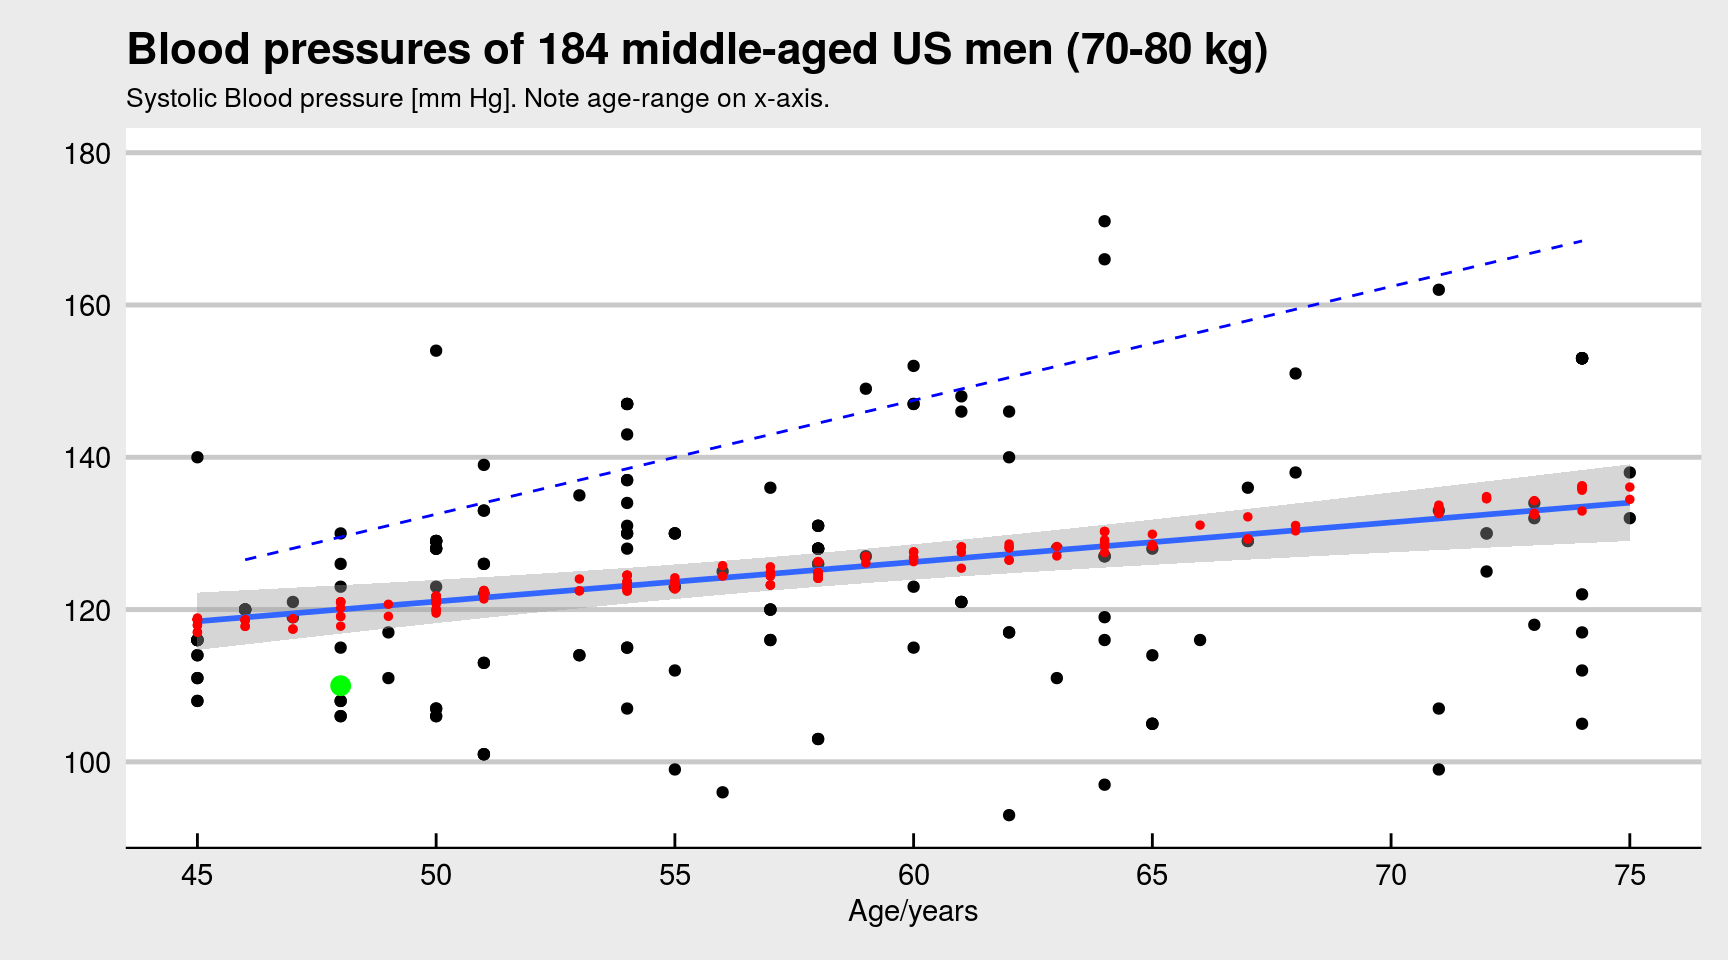
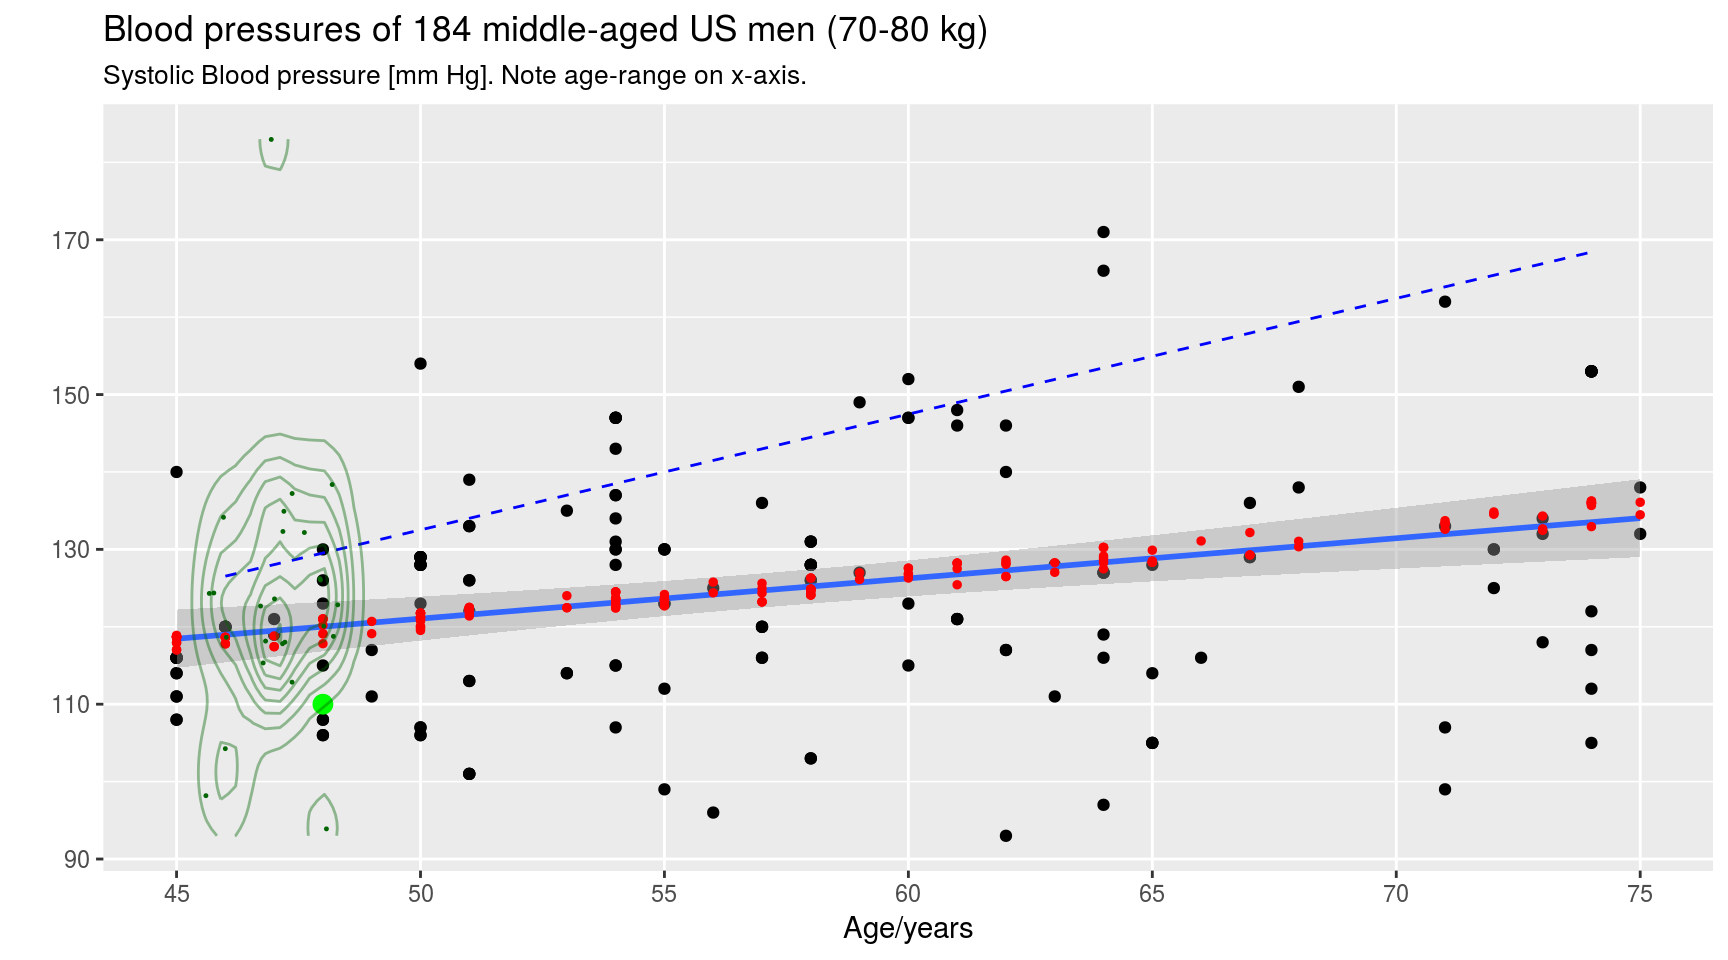
add isolines of  my BP data to last plot

diff --git a/content/post/2018-02-08-blood-pressure.html b/content/post/2018-02-08-blood-pressure.html
@@ -29,7 +29,7 @@ keywords:
 <div id="blood-pressure-as-a-function-of-age-and-body-weight" class="section level4">
 <h4>Blood Pressure as a function of age and body weight</h4>
 <div class="alert alert-info"><b>Basic analysis of two health datasets from ~ 2010, about the general US Population.</b>
-The datasets were gathered independently. One of them is a tiny teaching dataset, the other is a larger study. Both datasets show that systolic blood pressure rises about 5-10 mm Hg per decade of a person &apos;s life. </div>
+The datasets were gathered independently. One of them is a tiny teaching dataset, the other is a larger medical study. Both datasets show that systolic blood pressure rises about 5-10 mm Hg per decade of a person &apos;s life. </div>
 <p>Recently, conversations with friends and colleagues had me thinking about blood pressure. Then I’ve remembered that weekend project from late 2017. Back then I had analysed two datasets: one available <a href="http://college.cengage.com/mathematics/brase/understandable_statistics/7e/students/datasets/mlr/excel/mlr02.xls">on the internet</a>, the other available as R package <a href="https://cran.r-project.org/web/packages/NHANES/index.html">NHANES on CRAN</a>.</p>
 <p>My motivation for writing this up was (1) learning more tricks with visualization library <em>ggplot</em>, and more importantly, (2) gaining insights from a real study that interests me. It was also a helpful exercise to start with a small teaching dataset, then switch to a messier, larger dataset: a real medical study with data from 10000 people.</p>
 </div>
@@ -147,7 +147,7 @@ Figure 3: Blood Pressure by Age Group.
 <div id="linear-modeling" class="section level4">
 <h4>Linear modeling</h4>
 <p>Fit a linear regression model (Blood Pressure as a function of Age and Body Weight) to the entire <code>bloodpressure2</code> subset, just as above for the tiny dataset.</p>
-<div class="alert alert-warning">So the rate is more like <b>0.405 mm Hg/year.</b> Half as much as for the toy dataset. For data from an equivalent group (men only, same weight) the rate is ~6 mmHg/decade, a bit higher than 4.1 mmHg/decade. (See last figure below)</div>
+<div class="alert alert-warning">So the rate is more like <b>0.405 mm Hg/year.</b> Half as much as for the toy dataset. For data from a group <i>similar to me</i>(men only, 45+ yrs, 70-80 kg) the rate is ~6 mmHg/decade, a bit higher than 4.1 mmHg/decade. (See below)</div>
 <p>For the R experts:</p>
 <pre><code>## 
 ## Call:
@@ -222,7 +222,7 @@ Figure 7: Blood pressure as a function of age and body weight. NHANES data filte
 </p>
 </div>
 <p>The solid blue line shows the predictions by age alone. The slope is 0.585 mmHg/yr, much lower than the slope in Figure 1 which was 0.861. The equivalent regression line from Figure 1 is shown as a dashed blue line.</p>
-<p>The green dot shows my personal Age/BP data, measured 2014-2017 by my doctor, as far I remember it.</p>
+<p>The large green dot shows my personal Age/BP data, measured 2014-2017 by my doctor, as far I remember it (always BP = 110 mmHg). Tiny dark green dots and isolines represent BP values stored on my own BP measurement device which might have been used on other family members (I don’t remember).</p>
 <pre><code>## 
 ## Call:
 ## lm(formula = BPSysAve ~ Age + Weight, data = bloodpressure3)
